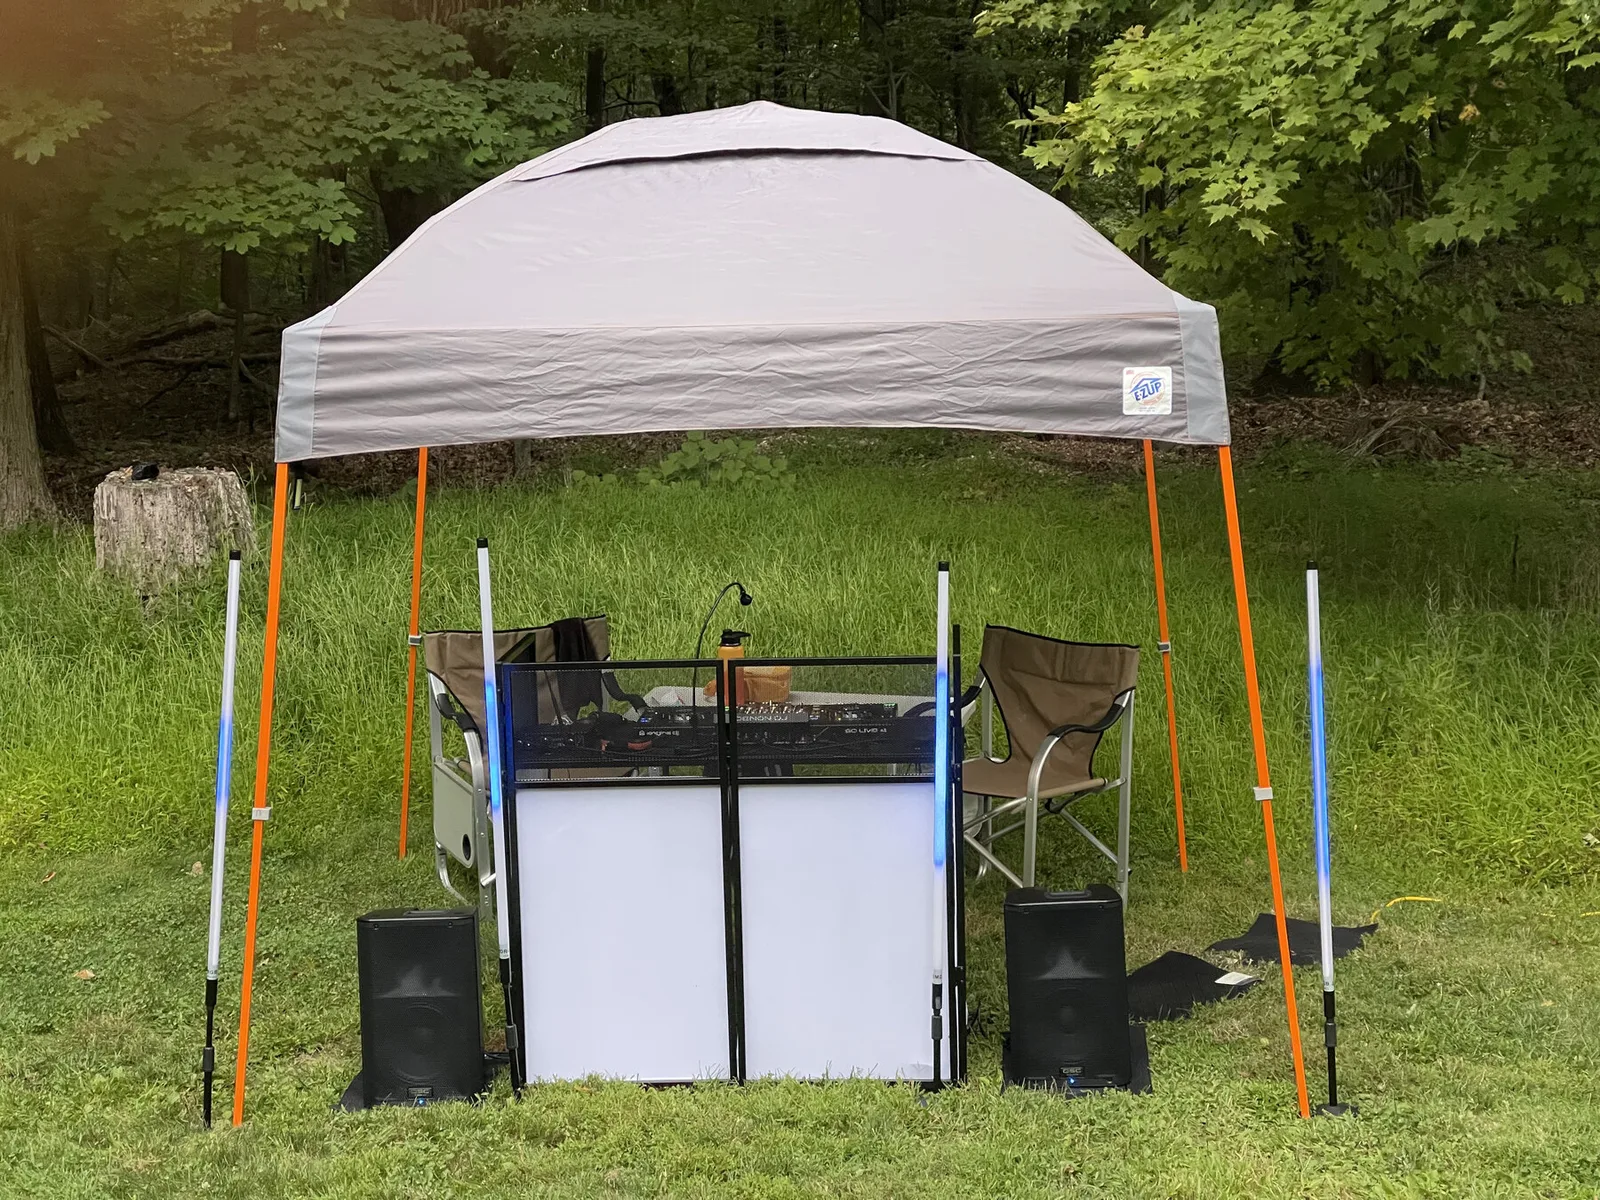
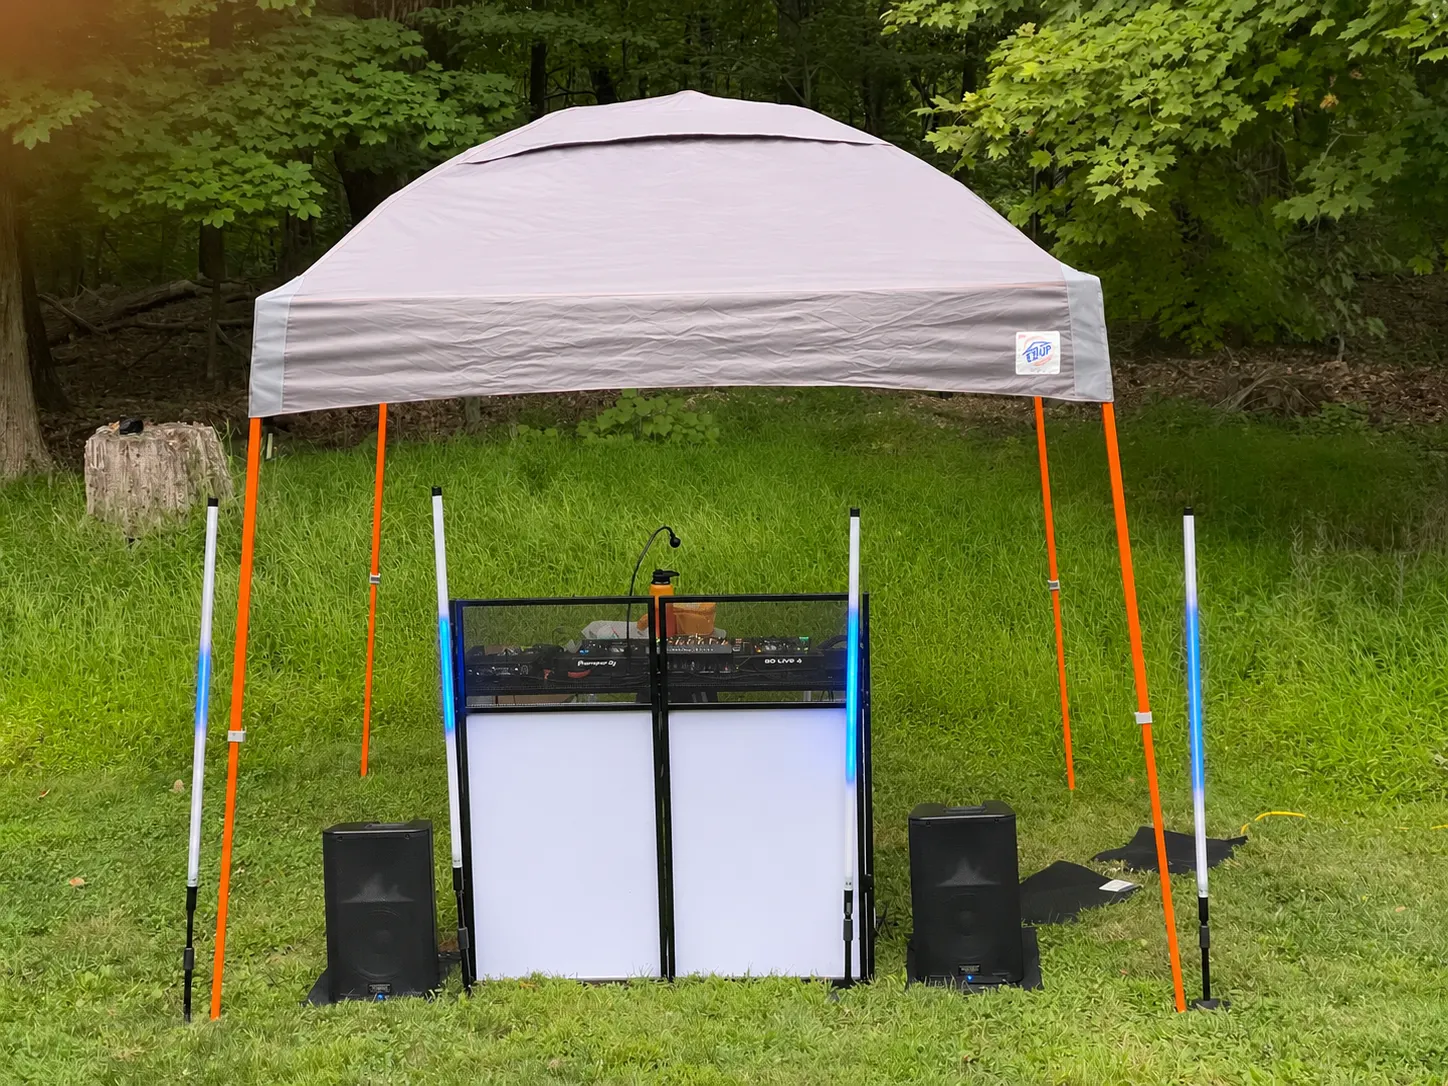
Remove brown chairs from outdoor tent photo

diff --git a/public_html/gig-log/index.html b/public_html/gig-log/index.html
@@ -28,7 +28,7 @@
 <button class="gig-tile" type="button" data-photo="27" aria-label="Enlarge photo 28"><img src="optimized/photo-29-thumb.webp" data-view-src="optimized/photo-29-view.webp" data-original-src="photos/import-2026/IMG_2484.jpg" width="1800" height="1350" alt="DJ Jesse B event photography" loading="lazy" decoding="async"></button>
 <button class="gig-tile" type="button" data-photo="28" aria-label="Enlarge photo 29"><img src="optimized/photo-30-thumb.webp" data-view-src="optimized/photo-30-view.webp" data-original-src="photos/import-2026/IMG_2486.jpg" width="1800" height="1350" alt="DJ Jesse B event photography" loading="lazy" decoding="async"></button>
 <button class="gig-tile" type="button" data-photo="29" aria-label="Enlarge photo 30"><img src="optimized/photo-31-thumb.webp" data-view-src="optimized/photo-31-view.webp" data-original-src="photos/import-2026/IMG_2547.jpg" width="1800" height="1350" alt="DJ Jesse B event photography" loading="lazy" decoding="async"></button>
-<button class="gig-tile" type="button" data-photo="30" aria-label="Enlarge photo 31"><img src="optimized/photo-32-thumb.webp" data-view-src="optimized/photo-32-view.webp" data-original-src="photos/import-2026/IMG_2652.jpg" width="1800" height="1350" alt="DJ Jesse B event photography" loading="lazy" decoding="async"></button>
+<button class="gig-tile" type="button" data-photo="30" aria-label="Enlarge photo 31"><img src="optimized/photo-32-thumb.webp" data-view-src="optimized/photo-32-view.webp" data-original-src="photos/import-2026/IMG_2652-no-chairs.jpg" width="1448" height="1086" alt="Outdoor DJ Jesse B setup beneath a canopy, with chairs removed" loading="lazy" decoding="async"></button>
 <button class="gig-tile" type="button" data-photo="31" aria-label="Enlarge photo 32"><img src="optimized/photo-33-thumb.webp" data-view-src="optimized/photo-33-view.webp" data-original-src="photos/import-2026/IMG_2687.jpg" width="1448" height="1086" alt="DJ Jesse B event photography" loading="lazy" decoding="async"></button>
 <button class="gig-tile" type="button" data-photo="32" aria-label="Enlarge photo 33"><img src="optimized/photo-34-thumb.webp" data-view-src="optimized/photo-34-view.webp" data-original-src="photos/import-2026/IMG_2688.jpg" width="1448" height="1086" alt="DJ Jesse B event photography" loading="lazy" decoding="async"></button>
 <button class="gig-tile" type="button" data-photo="33" aria-label="Enlarge photo 34"><img src="optimized/photo-35-thumb.webp" data-view-src="optimized/photo-35-view.webp" data-original-src="photos/import-2026/IMG_2768.jpg" width="1350" height="1800" alt="DJ Jesse B event photography" loading="lazy" decoding="async"></button>
